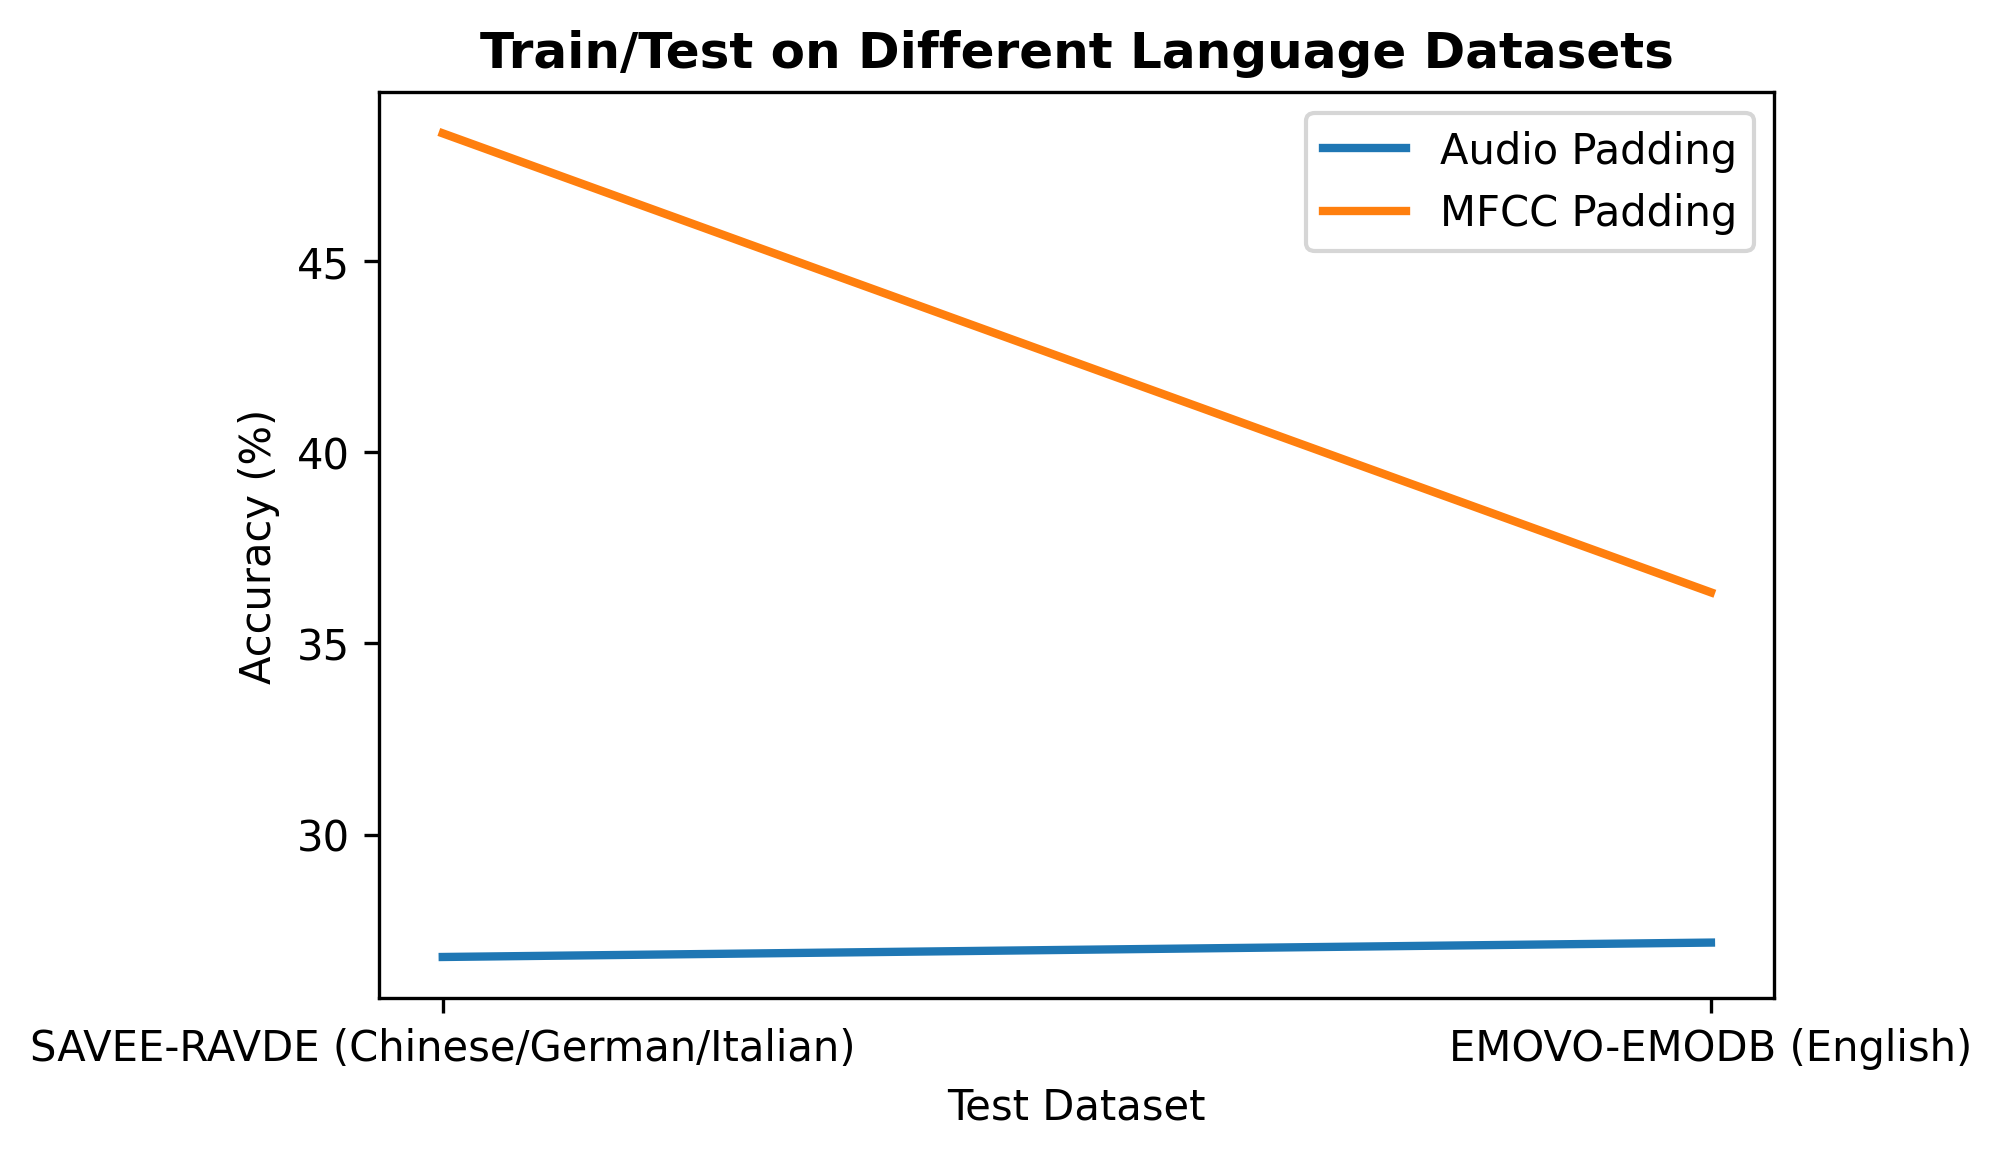
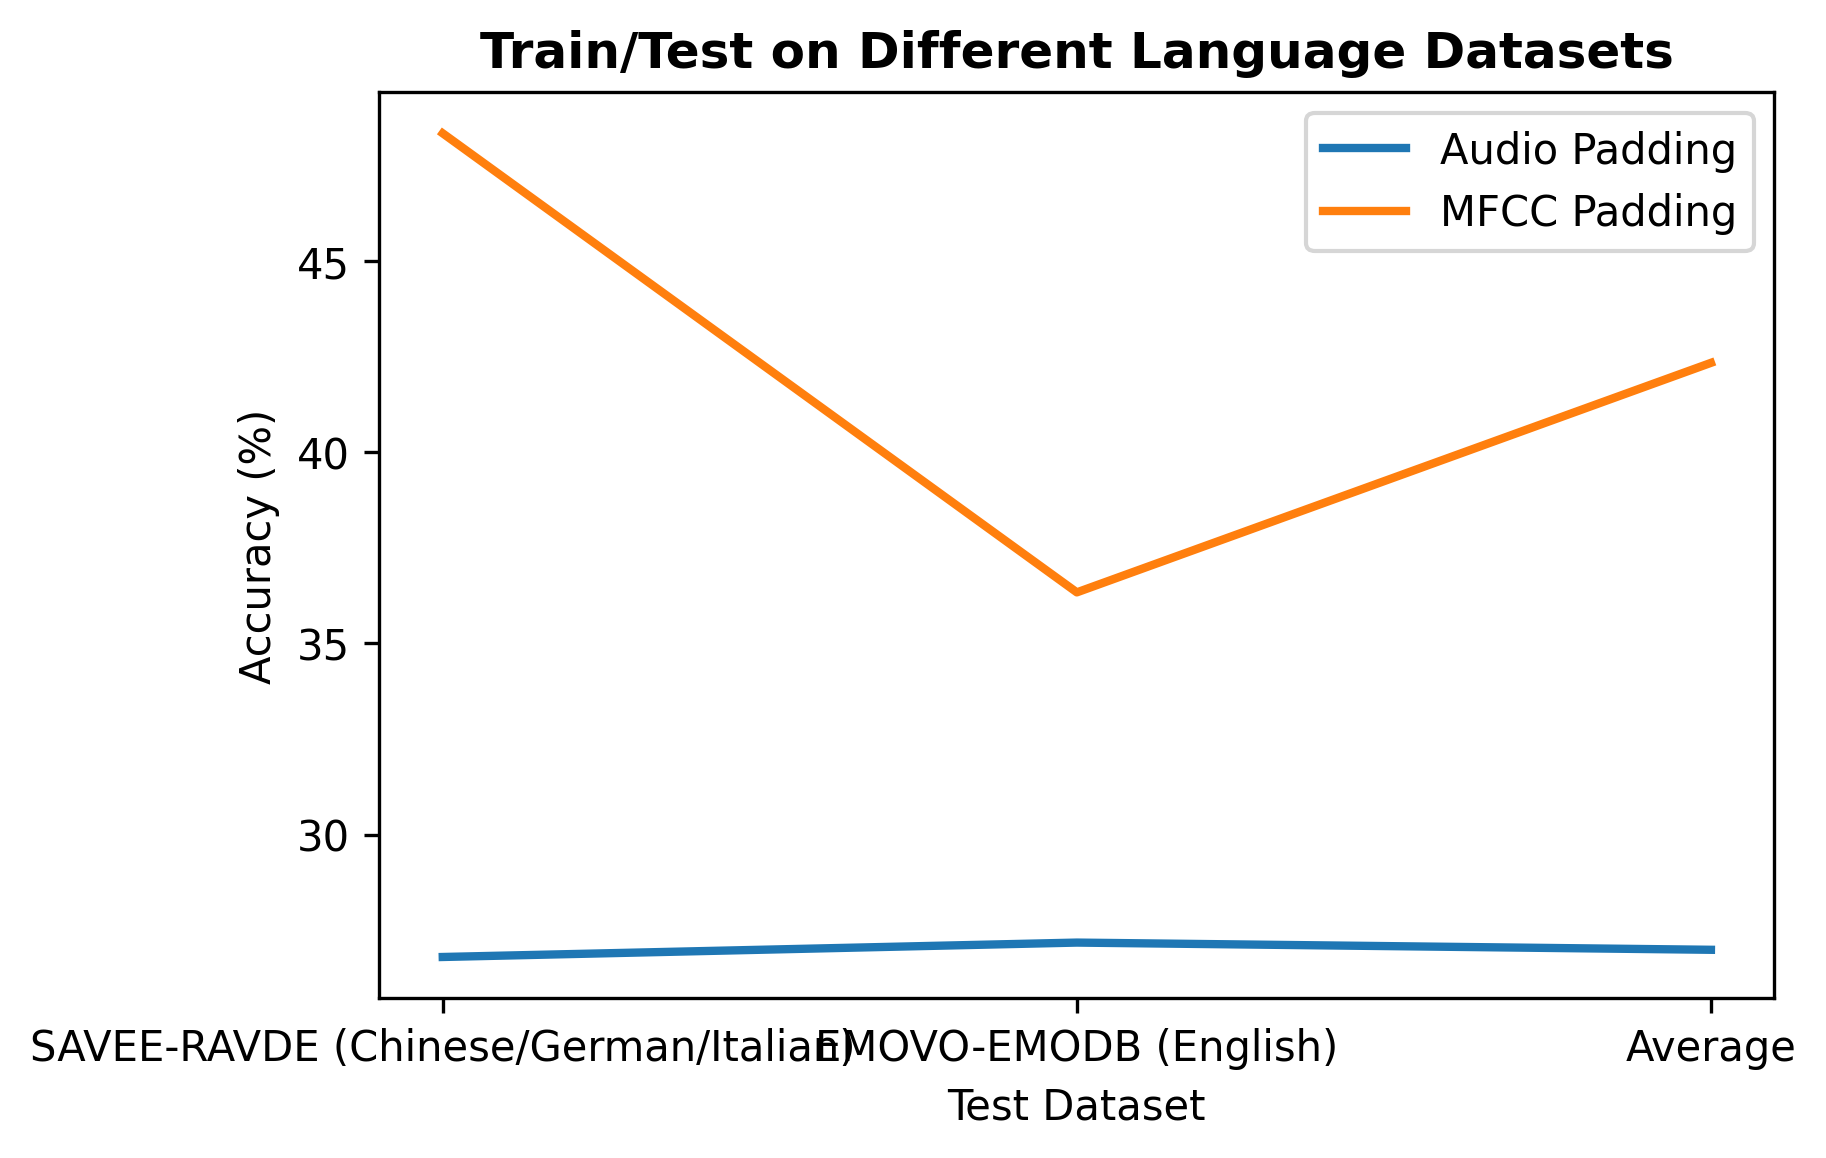
Added average performance point to accuracy plots

diff --git a/plot_performance_metrics.py b/plot_performance_metrics.py
@@ -173,17 +173,27 @@ acc_dir = 'Accuracy'
 acc_path = os.path.join(cur_dir, figures_dir, acc_dir)
 
 # train 3, test 1
+train3_test1_acc_avg = [np.mean([acc_emodbemovoravde_savee_audio_vals*100,\
+                          acc_emodbemovosavee_ravde_audio_vals*100,\
+                          acc_emodbravdesavee_emovo_audio_vals*100,\
+                          acc_emovoravdesavee_emodb_audio_vals*100]),\
+                        np.mean([acc_emodbemovoravde_savee_mfcc_vals*100,\
+                        acc_emodbemovosavee_ravde_mfcc_vals*100,\
+                        acc_emodbravdesavee_emovo_mfcc_vals*100,\
+                        acc_emovoravdesavee_emodb_mfcc_vals*100])]
 train3_test1_acc_audio = [acc_emodbemovoravde_savee_audio_vals*100,\
                           acc_emodbemovosavee_ravde_audio_vals*100,\
                           acc_emodbravdesavee_emovo_audio_vals*100,\
-                          acc_emovoravdesavee_emodb_audio_vals*100]
+                          acc_emovoravdesavee_emodb_audio_vals*100,\
+                          train3_test1_acc_avg[0]]
 train3_test1_acc_mfcc = [acc_emodbemovoravde_savee_mfcc_vals*100,\
                           acc_emodbemovosavee_ravde_mfcc_vals*100,\
                           acc_emodbravdesavee_emovo_mfcc_vals*100,\
-                          acc_emovoravdesavee_emodb_mfcc_vals*100]
+                          acc_emovoravdesavee_emodb_mfcc_vals*100,\
+                          train3_test1_acc_avg[1]]
     
 train3_test1_title = 'Train on 3 Datasets, Test on 1 Dataset'
-train3_test1_test_datasets = ['SAVEE', 'RAVDE', 'EMOVO', 'EMODB']
+train3_test1_test_datasets = ['SAVEE', 'RAVDE', 'EMOVO', 'EMODB', 'Average']
 
 plot_accuracy(train3_test1_acc_audio, train3_test1_acc_mfcc, train3_test1_test_datasets, train3_test1_title, acc_path, 'Train3Test1')
 
